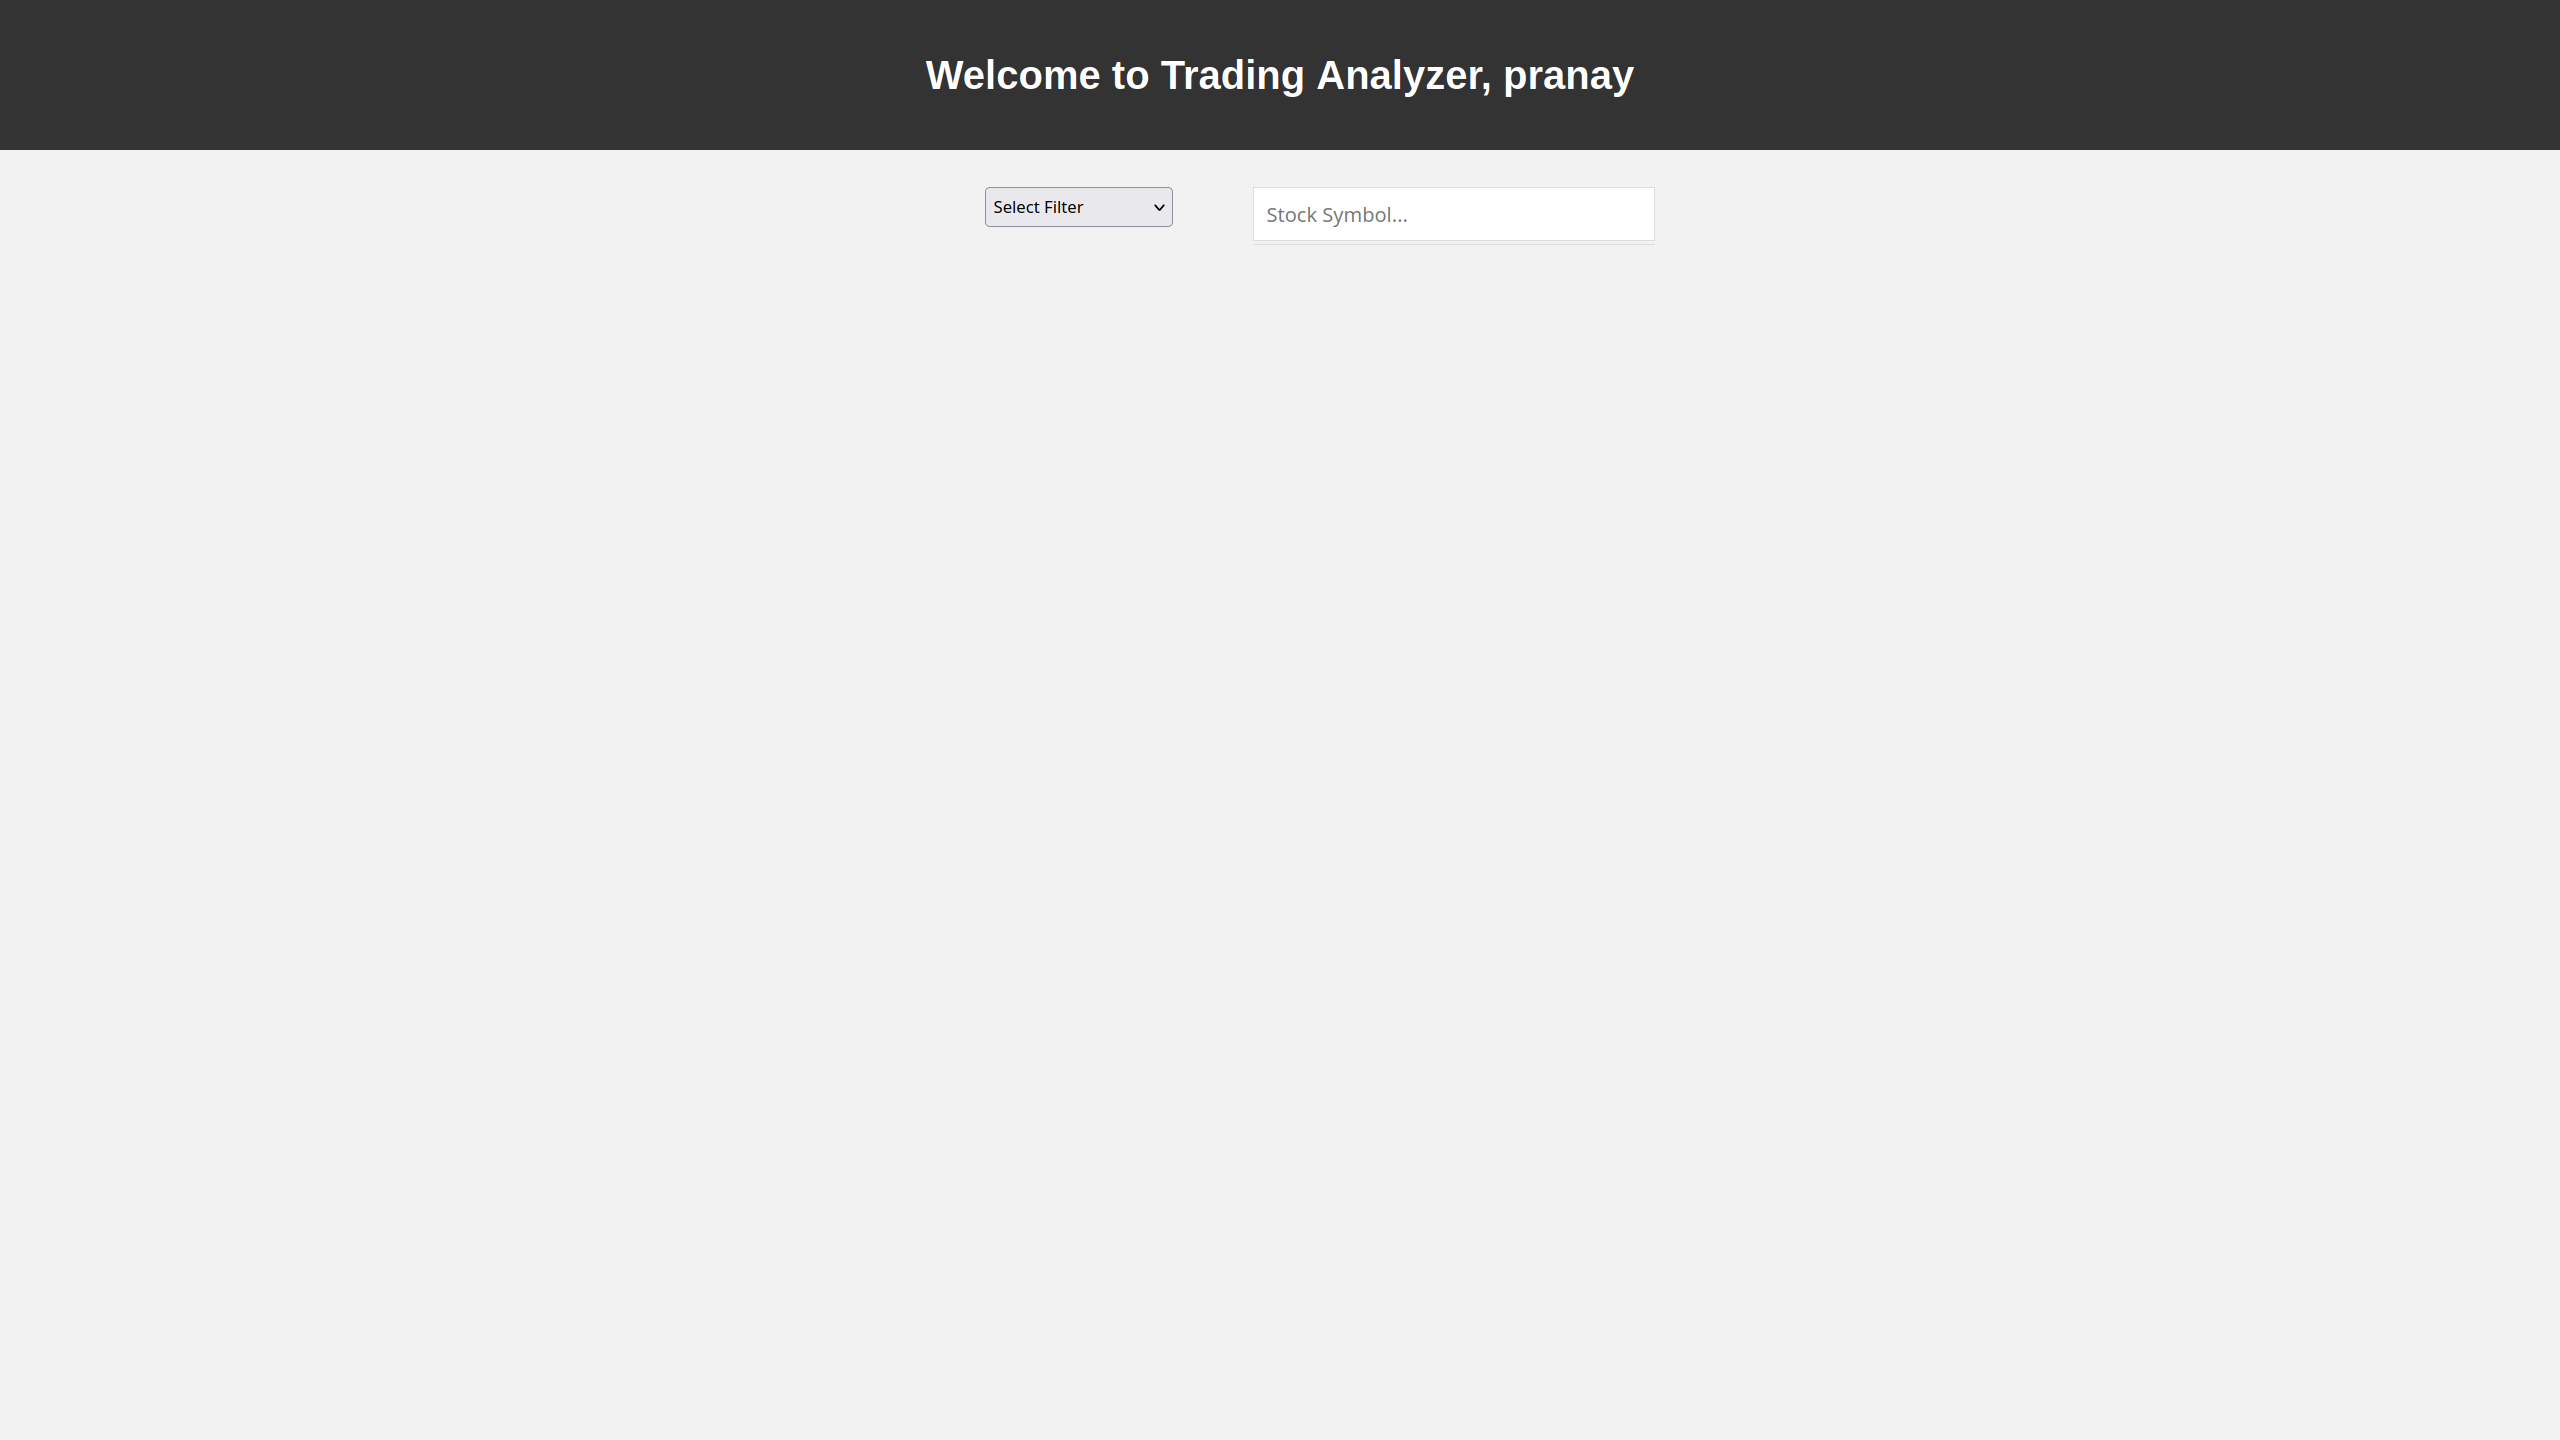
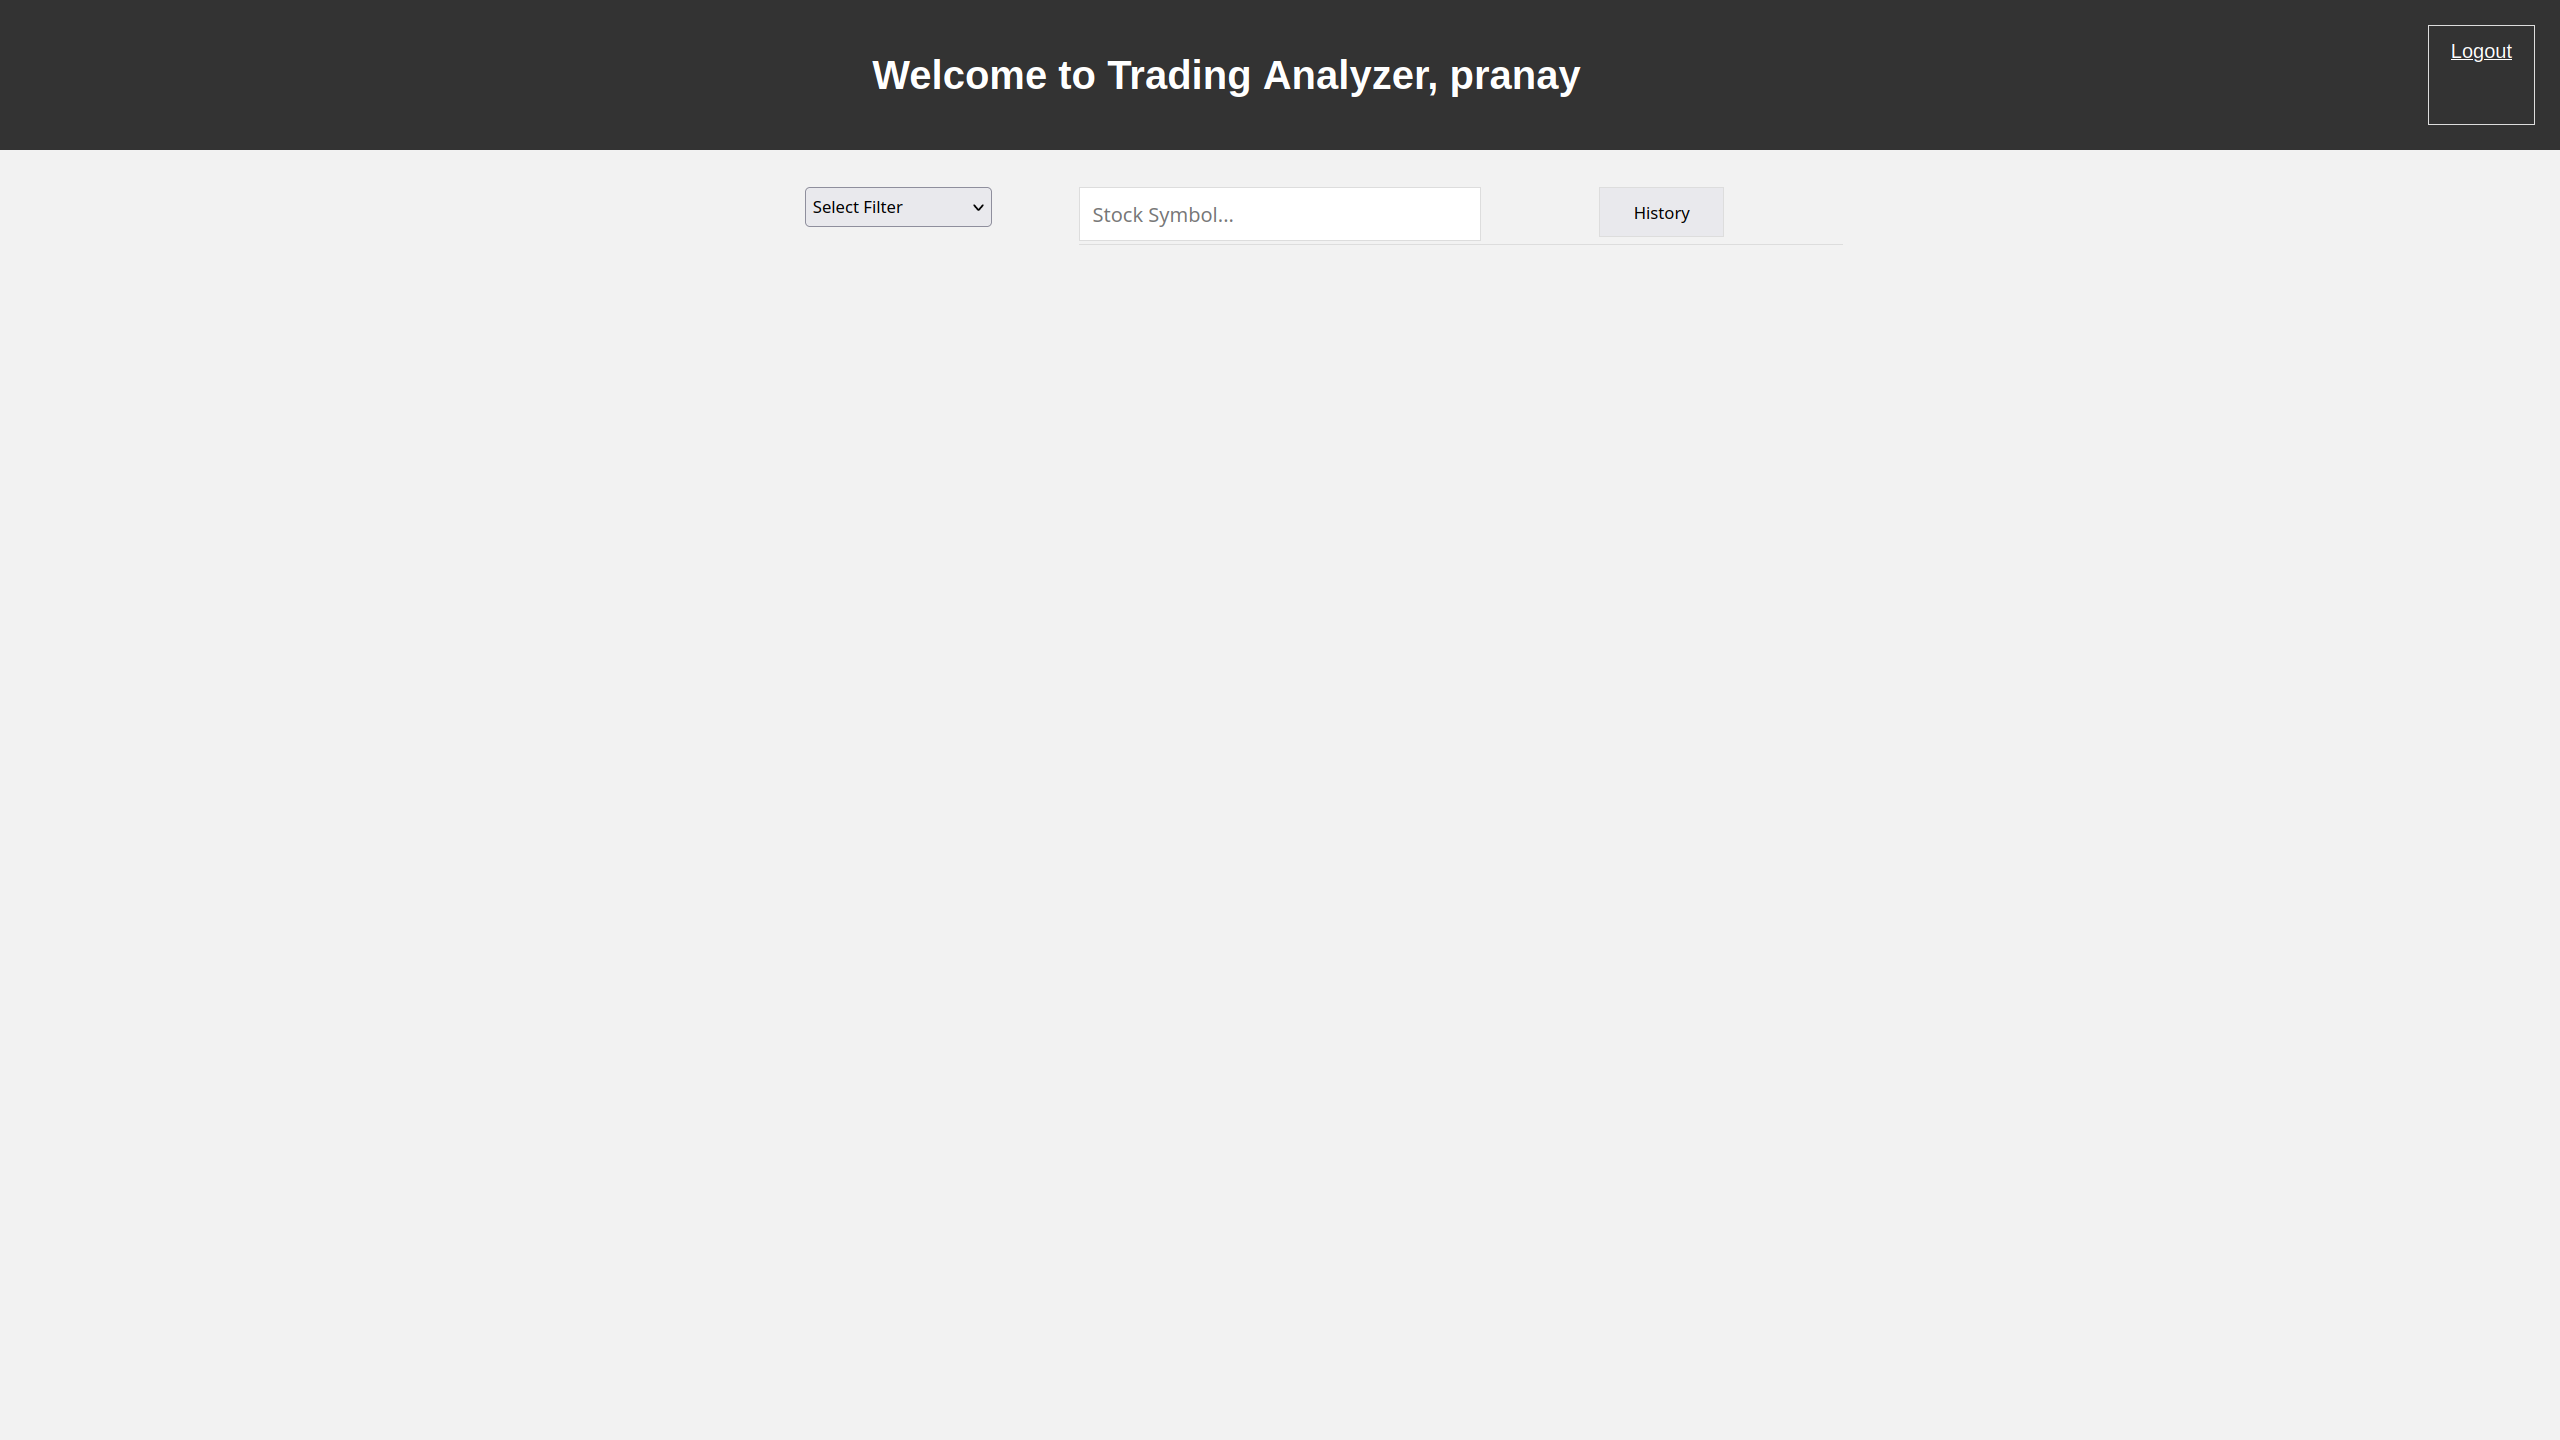
add logout button, update screenshots

diff --git a/static/style_dashboard.css b/static/style_dashboard.css
@@ -8,10 +8,22 @@ body {
 }
 
 header {
+    display: flex;
     background-color: #333;
     color: #fff;
     padding: 20px;
     text-align: center;
+}
+
+.pageHeader {
+  flex:30;
+}
+
+.logout-button {
+  flex:1;
+  border: 1px solid #ddd;
+  padding: 10px;
+  color: #fff;
 }
 
 h2 {
@@ -20,10 +32,6 @@ h2 {
 
 label {
     color: #333; /* Grey */
-}
-
-button:hover {
-    background-color: #0056b3; /* Dark blue */
 }
 
 .chart {

diff --git a/templates/dashboard.html b/templates/dashboard.html
@@ -26,7 +26,8 @@
 
 <body id="pageBody">
     <header>
-        <h1>Welcome to Trading Analyzer, {{ username }}</h1>
+        <h1 class="pageHeader">Welcome to Trading Analyzer, {{ username }}</h1>
+        <a class="logout-button" id="logoutButton" href='/logout'>Logout</a>
     </header>
     <div class="top-bar">
         <div class="filter-wrapper" id="filterWrapper">

diff --git a/static/plot_chart.js b/static/plot_chart.js
@@ -341,5 +341,6 @@ document.addEventListener('DOMContentLoaded', function () {
   document.getElementById('pageBody').addEventListener('click', function() {
     clearMenus();
   });
+
 });
 
